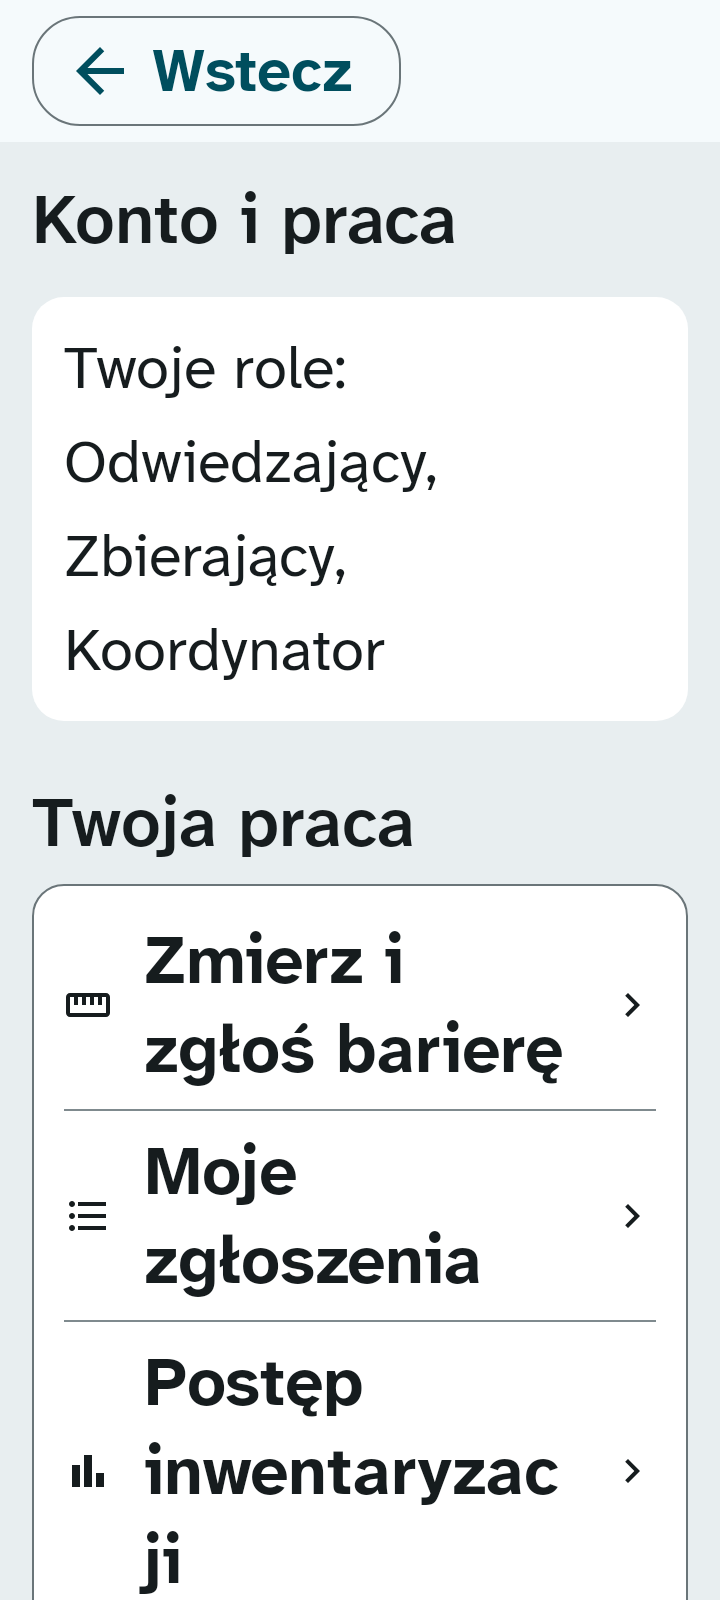
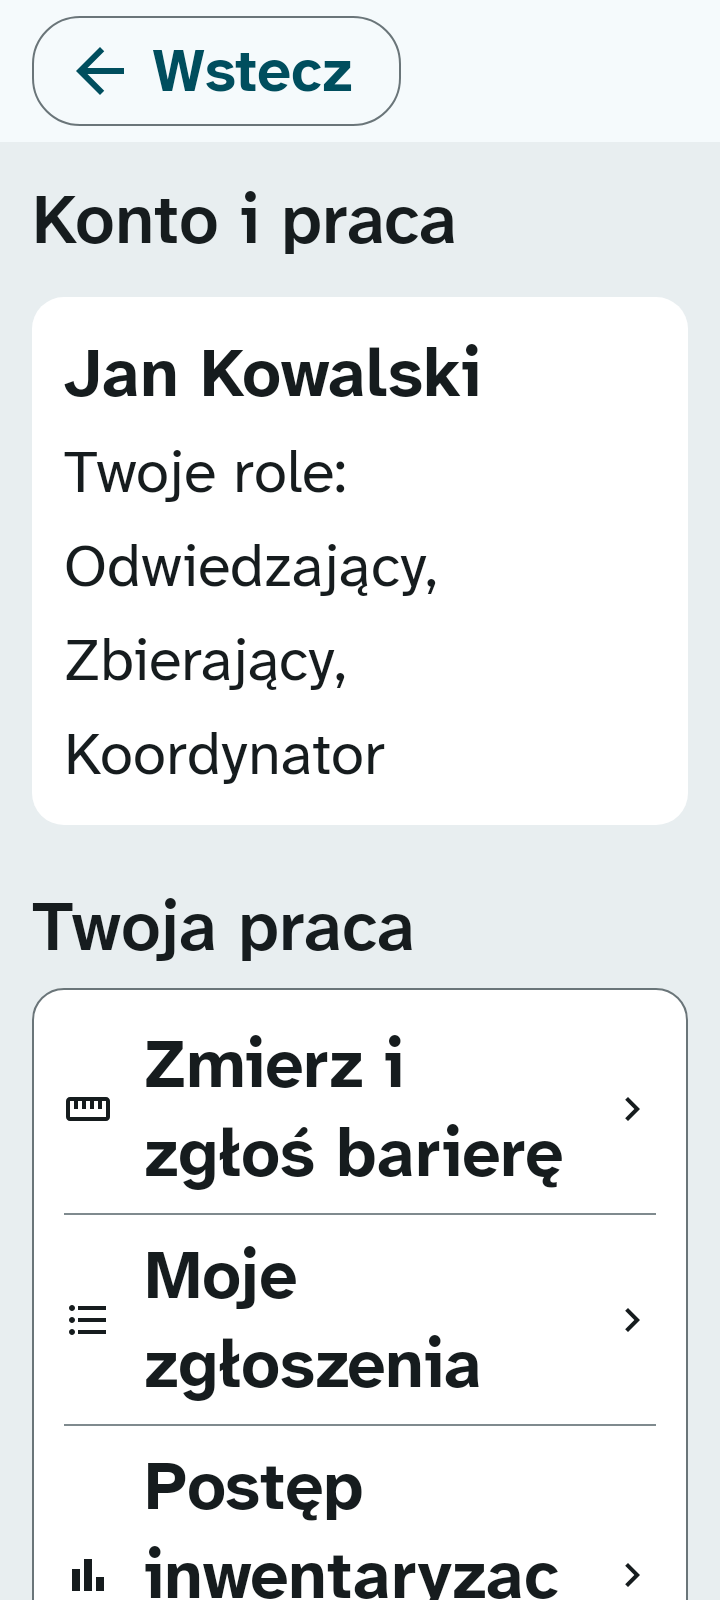
fix(konto): zapisz brak nazwy i zaktualizuj wzorce ekranu

diff --git a/android/feature/auth/src/test/kotlin/io/github/dostepnykampus/feature/auth/AccountScreenTest.kt b/android/feature/auth/src/test/kotlin/io/github/dostepnykampus/feature/auth/AccountScreenTest.kt
@@ -7,6 +7,7 @@ package io.github.dostepnykampus.feature.auth
 
 import androidx.activity.ComponentActivity
 import androidx.compose.ui.test.assertIsDisplayed
+import androidx.compose.ui.test.getUnclippedBoundsInRoot
 import androidx.compose.ui.test.junit4.v2.createAndroidComposeRule
 import androidx.compose.ui.test.onNodeWithText
 import androidx.compose.ui.test.performClick
@@ -42,7 +43,7 @@ class AccountScreenTest {
         val roles = compose.onNodeWithText("Twoje role: Odwiedzający, Zbierający, Koordynator").assertIsDisplayed()
         assertTrue(
             "nazwa nad rolami",
-            name.fetchSemanticsNode().boundsInRoot.bottom <= roles.fetchSemanticsNode().boundsInRoot.top,
+            name.getUnclippedBoundsInRoot().bottom <= roles.getUnclippedBoundsInRoot().top,
         )
         compose.onNodeWithText("Zmierz i zgłoś barierę").performScrollTo().performClick()
         compose.onNodeWithText("Moje zgłoszenia").performScrollTo().performClick()

diff --git a/android/feature/auth/src/main/kotlin/io/github/dostepnykampus/feature/auth/AccountScreen.kt b/android/feature/auth/src/main/kotlin/io/github/dostepnykampus/feature/auth/AccountScreen.kt
@@ -86,7 +86,9 @@ fun AccountScreen(account: Account.SignedIn, actions: AccountActions, modifier: 
 private fun PersonCard(account: Account.SignedIn) {
     val names = listOf(stringResource(R.string.rola_odwiedzajacy)) + roleNames(account)
     InfoPanel {
-        account.displayName?.let { Text(text = it, style = MaterialTheme.typography.titleMedium) }
+        if (account.displayName.isNotBlank()) {
+            Text(text = account.displayName, style = MaterialTheme.typography.titleMedium)
+        }
         Text(
             text = stringResource(R.string.konto_twoje_role, names.joinToString(separator = ", ")),
             style = MaterialTheme.typography.bodyLarge,

diff --git a/android/core/model/src/main/kotlin/io/github/dostepnykampus/core/model/Account.kt b/android/core/model/src/main/kotlin/io/github/dostepnykampus/core/model/Account.kt
@@ -28,9 +28,9 @@ public sealed interface Account {
      * Wymagania: RO-ODW, BR-1, US14.3
      *
      * @property staffRoles dodatkowe role pracownicze
-     * @property displayName nazwa osoby albo `null`, gdy jest niedostępna
+     * @property displayName nazwa osoby albo pusty tekst, gdy jest niedostępna
      */
-    public data class SignedIn(val staffRoles: Set<StaffRole> = emptySet(), val displayName: String? = null) : Account
+    public data class SignedIn(val staffRoles: Set<StaffRole> = emptySet(), val displayName: String = "") : Account
 }
 
 /** Czy osoba jest zalogowana, czyli może zgłosić barierę i otworzyć konto L2. Wymagania: US14.2 */

diff --git a/android/core/data/src/main/kotlin/io/github/dostepnykampus/core/data/account/AccountSession.kt b/android/core/data/src/main/kotlin/io/github/dostepnykampus/core/data/account/AccountSession.kt
@@ -138,6 +138,6 @@ public fun accountOf(token: String): Account? {
     val claims = accountClaimsOf(token) ?: return null
     return Account.SignedIn(
         staffRoles = StaffRole.entries.filter { it.name in claims.realmRoles }.toSet(),
-        displayName = claims.displayName,
+        displayName = claims.displayName.orEmpty(),
     )
 }
